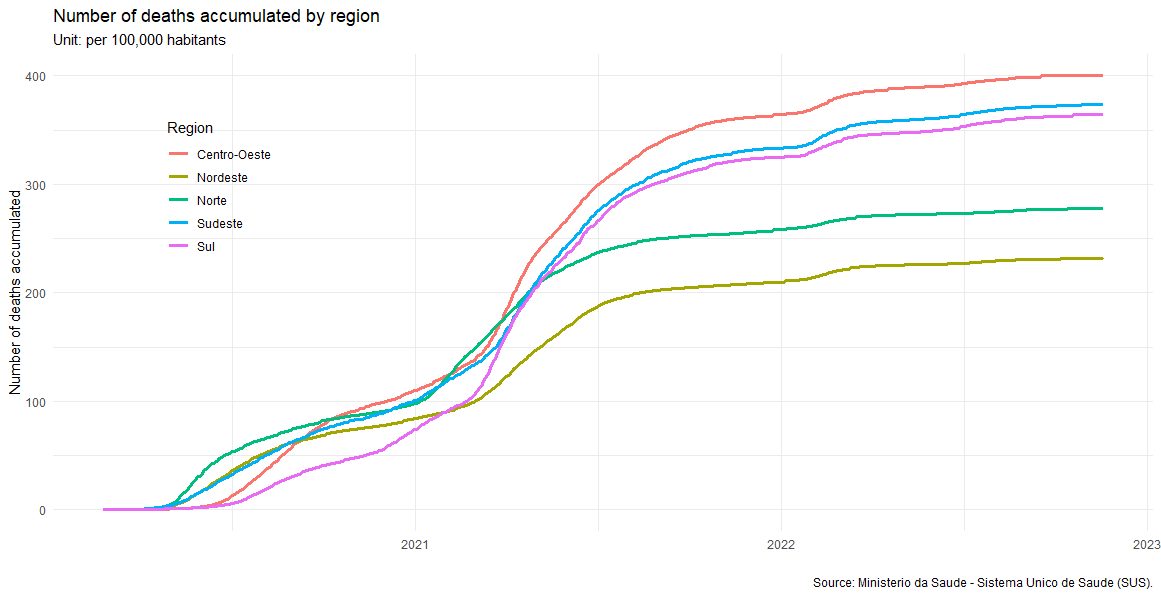
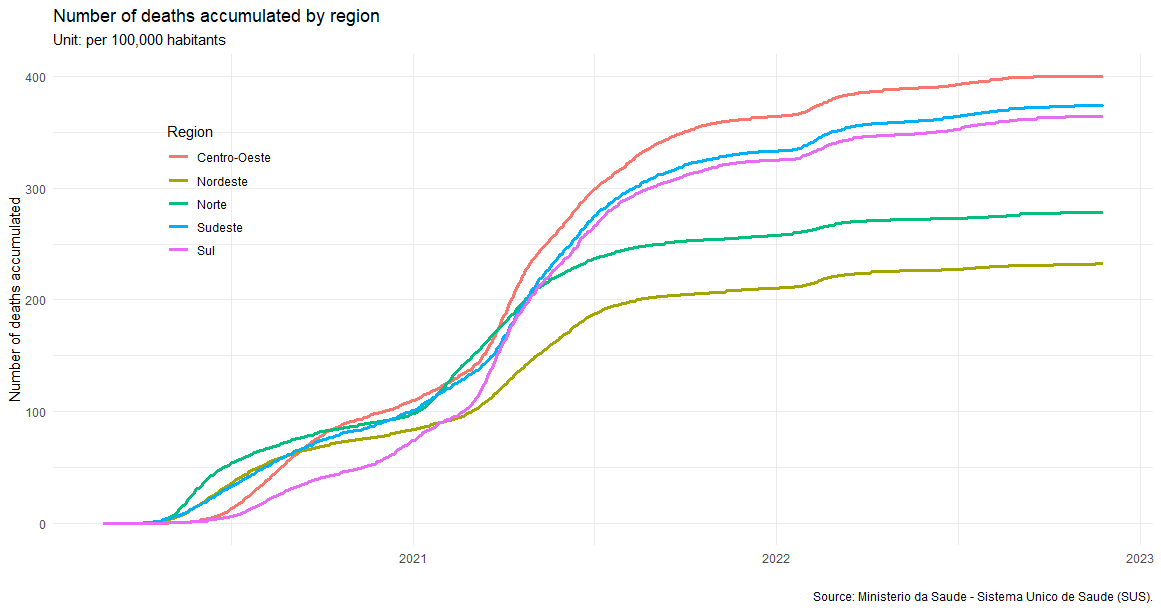
Update README file

diff --git a/README.md b/README.md
@@ -106,7 +106,7 @@ Saude (SUS)](https://www.gov.br/saude/pt-br). Data are available as of
 ## Cases accumulated per 100,000 inhabitants
 
 The graph below shows the number of cases accumulated in each Federative
-Unit of Brazil per 100,000 inhabitants (data for the day 2022-11-18).
+Unit of Brazil per 100,000 inhabitants (data for the day 2022-11-25).
 
 Data source: [Ministerio da Saude - Sistema Unico de Saude
 (SUS)](https://www.gov.br/saude/pt-br)
@@ -114,13 +114,14 @@ Data source: [Ministerio da Saude - Sistema Unico de Saude
 <img src="man/figures/mapCases.png" width="100%" />  
 
 Below is the graph for the number of cases accumulated per 100,000
-inhabitants for each of the five macro-regions in Brazil.
+inhabitants for each of the five macro-regions in Brazil, information
+until the 2022-11-25.
 
 <img src="man/figures/cases100.png" width="100%" />  
 
 The next graph refers to the number of accumulated cases per 100,000
-inhabitants for the 853 municipalities in the state Minas Gerais (data
-for the day 2022-11-18).
+inhabitants for each of the 853 municipalities in the state Minas Gerais
+(data for the day 2022-11-25).
 
 <img src="man/figures/mgCases100.png" width="100%" />
 
@@ -128,7 +129,7 @@ for the day 2022-11-18).
 
 In turn, the next graph shows the number of deaths accumulated in each
 Federative Unit of Brazil per 100,000 inhabitants (data for the day
-2022-11-18).
+2022-11-25).
 
 Data source: [Ministerio da Saude - Sistema Unico de Saude
 (SUS)](https://www.gov.br/saude/pt-br)
@@ -136,13 +137,14 @@ Data source: [Ministerio da Saude - Sistema Unico de Saude
 <img src="man/figures/mapDeaths.png" width="100%" />  
 
 The graph below shows the number of accumulated deaths per 100,000
-inhabitants for each of Brazil’s five macro-regions.
+inhabitants for each of Brazil’s five macro-regions, information until
+the 2022-11-25.
 
 <img src="man/figures/deaths100.png" width="100%" />  
 
 The next graph refers to the number of accumulated deaths per 100,000
-inhabitants for the 853 municipalities in the state of Minas Gerais
-(data for the day 2022-11-18).
+inhabitants for each of the 853 municipalities in the state of Minas
+Gerais (data for the day 2022-11-25).
 
 <img src="man/figures/mgDeaths100.png" width="100%" />
 
@@ -228,7 +230,7 @@ plot_ly(data = brazil_total,
 The graph below presents the data for the number of daily new Covid-19
 cases for Brazil, a 3-day moving average, a 7-day moving average and the
 forecast, obtained by polynomial interpolation of degree 5, covering the
-entire period plus 15 days.
+entire period plus 15 days (last day of observed data is 2022-11-18).
 
 <img src="man/figures/predCases.png" width="100%" />  
 
@@ -259,6 +261,7 @@ p <- plot_ly(data = brazil_total,
 The next graph presents the data for the number of new daily deaths
 caused by Covid-19 for Brazil, a 3-day moving average, a 7-day moving
 average and the forecast, obtained by polynomial interpolation of degree
-5, covering the entire period plus 15 days.
+5, covering the entire period plus 15 days (last day of observed data is
+2022-11-18).
 
 <img src="man/figures/predDeaths.png" width="100%" />
